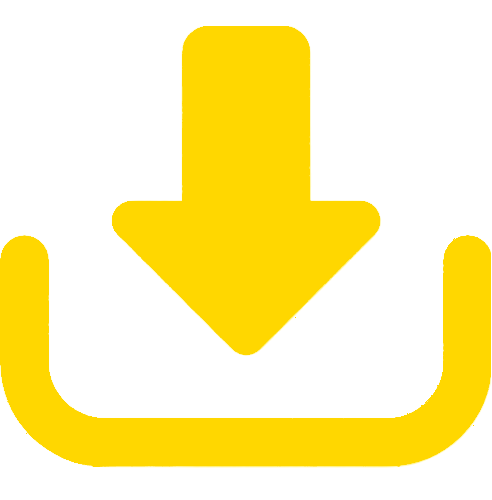
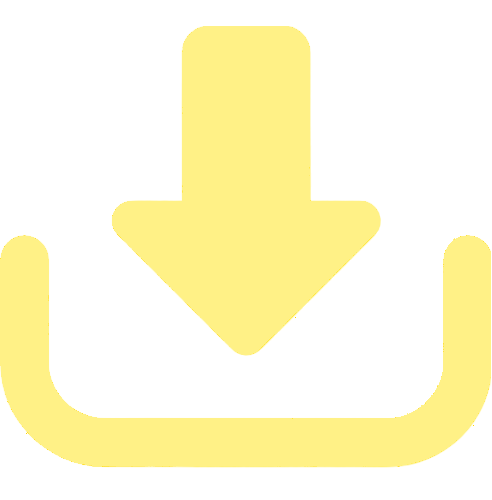
added preview window and redesigned cards

diff --git a/iCreoTools_DragAndDrop/wwwroot/js/ws-handler.js b/iCreoTools_DragAndDrop/wwwroot/js/ws-handler.js
@@ -60,7 +60,9 @@ window.initSocketHandler = function () {
             if (imageElement) {
                 imageElement.style.opacity = "0";
                 setTimeout(() => {
-                    imageElement.src = `${wsUrl}${message.previewUrl.split('/').slice(-1)}`;
+                    const newSrc = `${wsUrl}${message.previewUrl.split('/').slice(-1)}`;
+                    console.log(`Обновление src для image-${currentProcessingIndex}: ${newSrc}`);
+                    imageElement.src = newSrc;
                     imageElement.style.opacity = "1";
                 }, 300);
             }
@@ -89,7 +91,10 @@ window.initSocketHandler = function () {
                 <div class="progress">
                     <div class="progress-bar" role="progressbar" style="width: 0%;" aria-valuenow="0" aria-valuemin="0" aria-valuemax="100" id="progress-bar-${index}">0%</div>
                 </div>
-                <img src="./images/dwnd-img.png" id="download-btn-${index}" class="download-btn" style="display: none;">
+                <div class="overlay-imgs">
+                    <img src="./images/eye.png" id="eye-btn-${index}" class="eye-btn" style="display: none;">
+                    <img src="./images/dwnd-img.png" id="download-btn-${index}" class="download-btn" style="display: none;">
+                </div>
             </div>
         `;
         previewImages.appendChild(card);
@@ -115,6 +120,16 @@ window.initSocketHandler = function () {
         });
     }
 
+    function removeModalBackdrop() {
+        const backdrops = document.querySelectorAll('.modal-backdrop');
+        backdrops.forEach(backdrop => {
+            console.log('Удаление modal-backdrop');
+            backdrop.remove();
+        });
+        document.body.classList.remove('modal-open');
+        document.body.style.removeProperty('padding-right');
+    }
+
     const sendRequest = (request, index) => {
         return new Promise((resolve, reject) => {
             currentProcessingIndex = index;
@@ -131,6 +146,80 @@ window.initSocketHandler = function () {
             }
         });
     };
+
+    async function processQueue(queue) {
+        while (queue.length > 0) {
+            const { imgData, request, index } = queue.shift();
+            console.log(`Обработка изображения ${index}: ${imgData.name}`);
+
+            try {
+                const { response, index: responseIndex } = await sendRequest(request, index);
+                if (response.type === "result") {
+                    processedResults[responseIndex] = {
+                        previewUrl: response.previewUrl,
+                        zipUrl: response.zipUrl
+                    };
+
+                    const downloadBtn = document.getElementById(`download-btn-${responseIndex}`);
+                    if (downloadBtn) {
+                        downloadBtn.style.display = "block";
+                        downloadBtn.addEventListener("click", () => {
+                            const zipUrl = processedResults[responseIndex].zipUrl;
+                            if (zipUrl) {
+                                const a = document.createElement("a");
+                                const zipSrc = `${wsUrl}${zipUrl.split('/').slice(-1)}`;
+                                console.log(`Скачивание ZIP: ${zipSrc}`);
+                                a.href = zipSrc;
+                                a.download = `result_${responseIndex + 1}.zip`;
+                                a.click();
+                            } else {
+                                alert("ZIP-архив для этого изображения не доступен.");
+                            }
+                        });
+                    } else {
+                        console.error(`Кнопка download-btn-${responseIndex} не найдена`);
+                    }
+
+                    const eyeBtn = document.getElementById(`eye-btn-${responseIndex}`);
+                    if (eyeBtn) {
+                        eyeBtn.style.display = "block";
+                        eyeBtn.addEventListener("click", () => {
+                            console.log(`Клик на eye-btn-${responseIndex}`);
+                            const previewImage = document.getElementById("preview-image");
+                            const previewModal = document.getElementById("imagePreviewModal");
+                            if (!previewImage || !previewModal) {
+                                console.error("Не найдены элементы preview-image или imagePreviewModal");
+                                alert("Ошибка: Не удалось открыть предпросмотр. Проверьте консоль.");
+                                return;
+                            }
+                            const imageSrc = `${wsUrl}${processedResults[responseIndex].previewUrl.split('/').slice(-1)}`;
+                            console.log(`Установка preview-image src: ${imageSrc}`);
+                            previewImage.src = imageSrc;
+                            const modal = new bootstrap.Modal(previewModal, { keyboard: true });
+                            modal.show();
+                            previewModal.addEventListener('hidden.bs.modal', removeModalBackdrop, { once: true });
+                        });
+                    } else {
+                        console.error(`Кнопка eye-btn-${responseIndex} не найдена`);
+                    }
+                }
+            } catch (error) {
+                console.error(`Не удалось обработать изображение ${imgData.name}:`, error);
+                alert(`Не удалось обработать изображение ${imgData.name}. Продолжаем с остальными...`);
+            }
+        }
+
+        if (processedResults.length === 0) {
+            alert("Не удалось обработать ни одно изображение.");
+            const previewModal = bootstrap.Modal.getInstance(document.getElementById('previewModal'));
+            if (previewModal) {
+                previewModal.hide();
+                removeModalBackdrop();
+            }
+        } else {
+            createAddMoreCard();
+        }
+    }
 
     document.getElementById("uploadForm").addEventListener("submit", async (e) => {
         e.preventDefault();
@@ -174,7 +263,9 @@ window.initSocketHandler = function () {
             keyboard: true
         });
         previewModal.show();
+        document.getElementById('previewModal').addEventListener('hidden.bs.modal', removeModalBackdrop, { once: true });
 
+        const queue = [];
         for (const imgData of originalImages) {
             const base64 = await fileToBase64(imgData.file);
             console.log(`Base64 для ${imgData.name} (первые 50 символов):`, base64.substring(0, 50));
@@ -184,40 +275,10 @@ window.initSocketHandler = function () {
                 Configuration: { AlphaLimit: 0, CheckSum: 0, CutterStep: 5 }
             };
 
-            try {
-                const { response, index } = await sendRequest(request, imgData.index);
-                if (response.type === "result") {
-                    processedResults[index] = {
-                        previewUrl: response.previewUrl,
-                        zipUrl: response.zipUrl
-                    };
-
-                    const downloadBtn = document.getElementById(`download-btn-${index}`);
-                    downloadBtn.style.display = "block";
-                    downloadBtn.addEventListener("click", () => {
-                        const zipUrl = processedResults[index].zipUrl;
-                        if (zipUrl) {
-                            const a = document.createElement("a");
-                            a.href = `${wsUrl}${zipUrl.split('/').slice(-1)}`;
-                            a.download = `result_${index + 1}.zip`;
-                            a.click();
-                        } else {
-                            alert("ZIP-архив для этого изображения не доступен.");
-                        }
-                    });
-                }
-            } catch (error) {
-                console.error(`Не удалось обработать изображение ${imgData.name}:`, error);
-                alert(`Не удалось обработать изображение ${imgData.name}. Продолжаем с остальными...`);
-            }
+            queue.push({ imgData, request, index: imgData.index });
         }
 
-        if (processedResults.length === 0) {
-            alert("Не удалось обработать ни одно изображение.");
-            previewModal.hide();
-        } else {
-            createAddMoreCard();
-        }
+        processQueue(queue);
     });
 
     const addMoreBtn = document.getElementById("add-more-btn");

diff --git a/iCreoTools_DragAndDrop/wwwroot/css/site.css b/iCreoTools_DragAndDrop/wwwroot/css/site.css
@@ -11,6 +11,7 @@
   --success-border: #3c6840;
   --success-text: #a9f0a9;
   --gold: #ffe200;
+  --gold-light: #FFF186;
   --grad-mid: #2b2b2b;
   --text-m: #757575;
 }
@@ -350,14 +351,37 @@ textarea.form-control:focus {
   max-width: 100%;
 }
 
-.download-btn {
-  --w: 25%;
-  margin-top: 0;
-  width: var(--w);
-  aspect-ratio: 1 / 1;
+.overlay-imgs {
+  --h: 25%;
+  width: 100%;
+  height: var(--h);
+  top: calc(50% - var(--h) / 2);
   position: absolute;
-  top: calc(50% - var(--w) / 2);
-  left: calc(50% - var(--w) / 2);
+  justify-content: space-between; 
+  padding: 0 18%;
+  flex-direction: row;
+  display: flex;
+}
+
+.download-btn {
+  margin: 0;
+  aspect-ratio: 1 / 1;
+  cursor: pointer;
+}
+
+.download-btn:hover {
+  filter: brightness(0.75) contrast(3);
+  transition: 0.2s ease-in-out;
+}
+
+.eye-btn:hover {
+  filter: brightness(0.75) contrast(0.5);
+  transition: 0.2s ease-in-out;
+}
+
+.eye-btn {
+  margin: 0;
+  aspect-ratio: 1 / 1;
   cursor: pointer;
 }
 
@@ -384,8 +408,8 @@ textarea.form-control:focus {
 }
 
 .image-card {
-  border: 2px solid #FFD700;
-  border-radius: 10px;
+  border: 2px solid var(--gold-light);
+  border-radius: 16px;
   overflow: hidden;
   background-color: #333; 
 }
@@ -411,7 +435,7 @@ textarea.form-control:focus {
 }
 
 .progress-bar {
-  background-color: #FFD700; 
+  background-color: var(--gold-light); 
   color: #000;
   font-weight: bold;
   display: flex;
@@ -425,12 +449,12 @@ textarea.form-control:focus {
 }
 
 .modal-header, .modal-footer {
-  border-color: #FFD700; 
+  border-color: var(--gold-light); 
 }
 
 .btn-secondary {
   background-color: #555;
-  border-color: #FFD700;
+  border-color: var(--gold-light);
 }
 
 .btn-secondary:hover {
@@ -455,11 +479,6 @@ textarea.form-control:focus {
   max-width: 100%;
 }
 
-.download-status {
-  margin-top: 10px;
-  color: green;
-}
-
 .dropzone p {
   margin: 0;
   position: relative;
@@ -472,6 +491,9 @@ textarea.form-control:focus {
 .card-overlay {
   width: 100%;
   height: 100%;
+  border: 2px solid var(--gold);
+  border-radius: 16px;
+  filter: blur(8px);
   position: absolute;
   top: 0;
   left: 0;
@@ -480,16 +502,23 @@ textarea.form-control:focus {
 
 #add-more-img {
   padding: 25%;
-  filter: invert(1) opacity(0.05);
+  filter: invert(1) opacity(0.07);
 }
 
 .add-more-text {
   position: absolute;
   top: 76%;
-  left: 44%;
-  color: white;
+  color: #434343;
+  width: 100%;
+  font-size: medium;
+  font-weight: 700;
 }
 
 .add-more-card {
   cursor: pointer;
+}
+
+.add-more-card:hover {
+  filter: brightness(1.35) ;
+  transition: 0.2s ease-in-out;
 }
